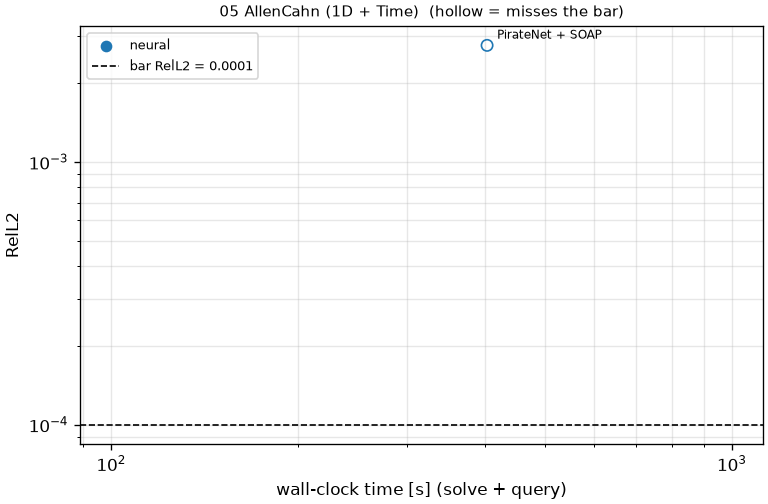
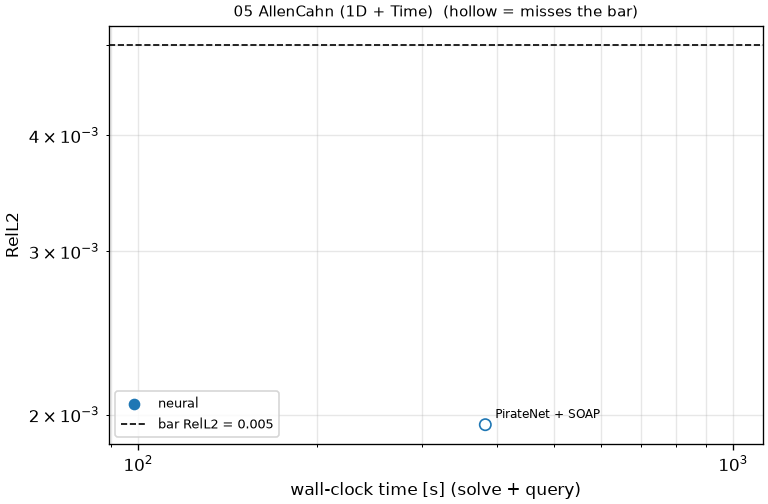
Submission 1 (FP32) results, set 2: tracks 05, 06, 07, 09

diff --git a/README.md b/README.md
@@ -165,11 +165,11 @@ its tracker: RelL2 vs wall-clock time, one point per submission, bar dashed.
 | 02 DampedWave (1D + Time) | [PirateNet + SOAP](tracks/track02_1DT_DampedWave/submissions/submission_PR0001/solve.py) | 1001 | 1.43e-02 (≤ 0.005) | 8.14e-03 (≤ 0.01) | no |
 | 03 Burgers (1D + Time) | [PirateNet + SOAP](tracks/track03_1DT_Burgers/submissions/submission_PR0001/solve.py) | 655.6 | 1.46e-05 (≤ 0.005) | 7.56e-05 (≤ 0.01) | yes |
 | 04 KuramotoSivashinsky (1D + Time) | [PirateNet + SOAP](tracks/track04_1DT_KuramotoSivashinsky/submissions/submission_PR0001/solve.py) | 1000 | 9.31e-01 (≤ 0.05) | 1.13e+00 (≤ 0.15) | no |
-| 05 AllenCahn (1D + Time) | — | | | | |
-| 06 KdV (1D + Time) | — | | | | |
-| 07 HighContrastDiffusion (2D) | — | | | | |
+| 05 AllenCahn (1D + Time) | [PirateNet + SOAP](tracks/track05_1DT_AllenCahn/submissions/submission_PR0001/solve.py) | 383 | 1.95e-03 (≤ 0.005) | 2.98e-02 (≤ 0.01) | no |
+| 06 KdV (1D + Time) | [PirateNet + SOAP](tracks/track06_1DT_KdV/submissions/submission_PR0001/solve.py) | 1001 | 5.52e-04 (≤ 0.005) | 1.15e-03 (≤ 0.01) | yes |
+| 07 HighContrastDiffusion (2D) | [PirateNet + SOAP](tracks/track07_2D_HighContrastDiffusion/submissions/submission_PR0001/solve.py) | 1001 | 1.36e-01 (≤ 0.005) | 2.03e-01 (≤ 0.01) | no |
 | 08 Helmholtz (2D) | *on hold* | | | | |
-| 09 AdvectionDiffusion (2D) | — | | | | |
+| 09 AdvectionDiffusion (2D) | [PirateNet + SOAP](tracks/track09_2D_AdvectionDiffusion/submissions/submission_PR0001/solve.py) | 300.7 | 9.44e-01 (≤ 0.005) | 7.24e-01 (≤ 0.01) | no |
 | 10 Kovasznay (2D) | — | | | | |
 | 11 LidDrivenCavity (2D) | — | | | | |
 | 12 Burgers (2D + Time) | — | | | | |

diff --git a/tracks/track09_2D_AdvectionDiffusion/README.md b/tracks/track09_2D_AdvectionDiffusion/README.md
@@ -31,6 +31,7 @@ Current record: **0.07111 s** (record #0: classical baseline, maintainers, 2026-
 
 | date | author | name | kind | time [s] | RelL2 | RelL∞ | passes | hardware |
 |---|---|---|---|---|---|---|---|---|
+| 2026-10-30 | maintainers | PirateNet + SOAP | neural | 300.7 | 9.44e-01 | 7.24e-01 | no | NVIDIA H100 80GB HBM3 (JAX) |
 | 2026-10-30 | maintainers | record #0: classical baseline | classical | 0.07111 | 2.90e-05 | 3.40e-05 | yes | NVIDIA H100 80GB HBM3 |
 
 ![accuracy_vs_time](figures/accuracy_vs_time.png)

diff --git a/tracks/track07_2D_HighContrastDiffusion/README.md b/tracks/track07_2D_HighContrastDiffusion/README.md
@@ -34,6 +34,7 @@ Current record: **1.92 s** (record #0: classical baseline, maintainers, 2026-10-
 
 | date | author | name | kind | time [s] | RelL2 | RelL∞ | passes | hardware |
 |---|---|---|---|---|---|---|---|---|
+| 2026-10-30 | maintainers | PirateNet + SOAP | neural | 1001 | 1.36e-01 | 2.03e-01 | no | NVIDIA H100 80GB HBM3 (JAX) |
 | 2026-10-30 | maintainers | record #0: classical baseline | classical | 1.92 | 3.83e-05 | 1.58e-04 | yes | NVIDIA H100 80GB HBM3 |
 
 ![accuracy_vs_time](figures/accuracy_vs_time.png)

diff --git a/tracks/track06_1DT_KdV/README.md b/tracks/track06_1DT_KdV/README.md
@@ -24,4 +24,12 @@ published data (jaxpi)
 
 ## Records
 
-No records yet.
+Current record: **1001 s** (PirateNet + SOAP, maintainers, 2026-10-30, NVIDIA H100 80GB HBM3 (JAX)).
+
+| date | author | name | kind | time [s] | RelL2 | RelL∞ | passes | hardware |
+|---|---|---|---|---|---|---|---|---|
+| 2026-10-30 | maintainers | PirateNet + SOAP | neural | 1001 | 5.52e-04 | 1.15e-03 | yes | NVIDIA H100 80GB HBM3 (JAX) |
+
+![accuracy_vs_time](figures/accuracy_vs_time.png)
+
+![activity](figures/activity.png)

diff --git a/tracks/track05_1DT_AllenCahn/README.md b/tracks/track05_1DT_AllenCahn/README.md
@@ -24,4 +24,10 @@ published data (jaxpi)
 
 ## Records
 
-No records yet.
+Current record: **383 s** (PirateNet + SOAP, maintainers, 2026-10-30, NVIDIA H100 80GB HBM3 (JAX)).
+
+| date | author | name | kind | time [s] | RelL2 | RelL∞ | passes | hardware |
+|---|---|---|---|---|---|---|---|---|
+| 2026-10-30 | maintainers | PirateNet + SOAP | neural | 383 | 1.95e-03 | 2.98e-02 | no | NVIDIA H100 80GB HBM3 (JAX) |
+
+![accuracy_vs_time](figures/accuracy_vs_time.png)
